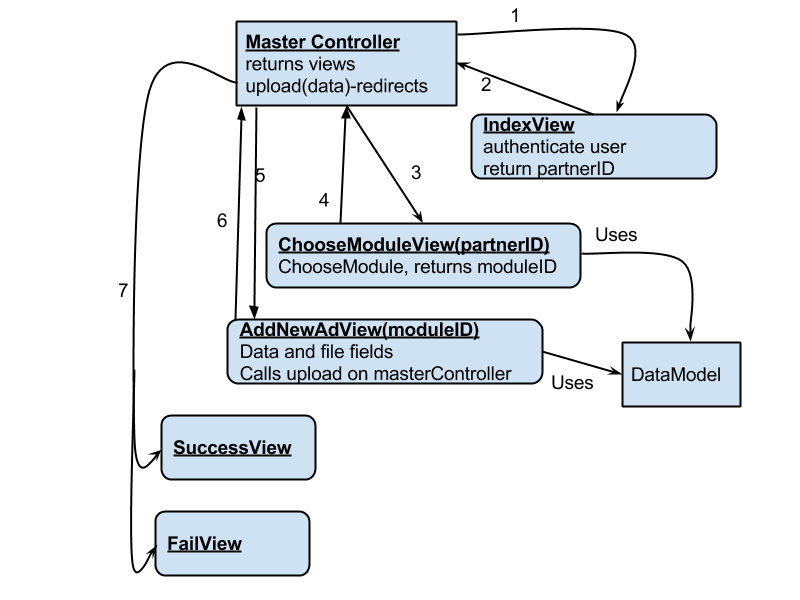
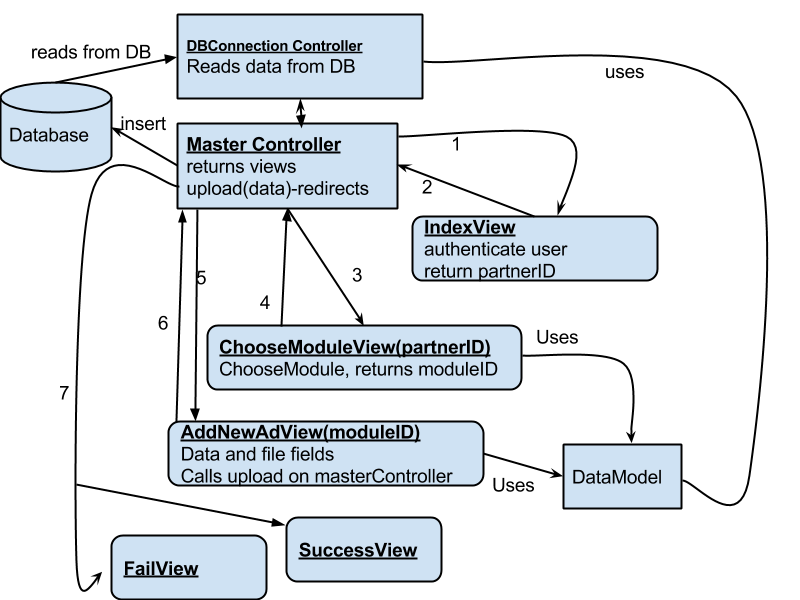
added more architecture pictures

diff --git a/report/chapters/sprints/sprint4.tex b/report/chapters/sprints/sprint4.tex
@@ -4,23 +4,24 @@
 When we didn't finish implementation by the end of Sprint 3, we had to add another sprint. The time frame for Sprint 4 was week 44 and 45. We started the sprint on October 28th with a weekly supervisor meeting, followed by a sprint plan meeting. We finished the sprint on November 8th.
 
 \subsection{Original Plan}
-Because we had planned to finish within three sprints, there were originally no plans for Sprint 4.
+Because we had planned to finish within three sprints, there were originally no plans for Sprint 4. However we quickly realized that we needed a Sprint 4 due to incomplete product at the end of Sprint 3.
 
 \subsection{Revised Plan}
 At the sprint plan meeting, we planned the following for this sprint:
 \begin{itemize}
-	\item Stuff
+	\item None
 \end{itemize}
+However we decided that the Sprint 4 was a "finish/polishing the implementation of the product"-Sprint.
 
 \subsection{Development}
 We converted the existing MVC controller of our implementation to a Web API controller.
 We created a new architecture which corresponds to the actual implementation.
 
 \subsection{Other Work}
-Other work we did during the sprint, such as producing documentation or attending courses.
+<Other work we did during the sprint, such as producing documentation or attending courses.>
 
 \subsection{Backlog}
-What we planned for the sprint that we either did not complete, get time to start, or that was simply pushed back.
+<What we planned for the sprint that we either did not complete, get time to start, or that was simply pushed back.>
 
 \subsection{Customer Meeting}
 <Add important notes from the customer meeting here, as well as new conclusions made>

diff --git a/report/chapters/architecture/architecture.tex b/report/chapters/architecture/architecture.tex
@@ -108,17 +108,40 @@ When we started to implement the system we quickly found out that the we had arc
 \begin{figure}[H]
 \centering
 \includegraphics[width=0.8\textwidth]{images/architecture03_revised1.png}
-\caption{New diagram showing the information flow}
+\caption{Temporary process view}
 \label{fig:info_flow}
 \end{figure}
 We tried to follow this MVC pattern when we implemented the system, however we quickly found out that the getView-Controller was not necessary.
 \begin{center}
 \begin{figure}[H]
 \centering
-\includegraphics[width=0.8\textwidth]{images/architecture_final01.png}
-\caption{The final architecture}
+\includegraphics[width=0.9\textwidth]{images/architecture_final01.png}
+\caption{Process View of final Architecture}
 \caption*{6 calls the upload method with files and data\\
 7 is the upload method redirecting either to a FailView or a SuccessView}
-\label{fig:architecture}
+\label{fig:process_view}
 \end{figure}
 \end{center}
+
+\begin{center}
+\begin{figure}[H]
+\centering
+\includegraphics[width=0.9\textwidth]{images/architecture_final02.png}
+\caption{Logical View of final Architecture of MVC}
+\caption*{This is the logical view of the MVC architecture.}
+\label{fig:logical_view1}
+\end{figure}
+\end{center}
+
+
+\begin{center}
+\begin{figure}[H]
+\centering
+\includegraphics[width=0.9\textwidth]{images/architecture_finalwebapi01.png}
+\caption{Logical View of final Architecture of Web API}
+%\caption*{This is the logical view of thearchitecture.}
+\label{fig:process_view_webapi}
+\end{figure}
+\end{center}
+
+
